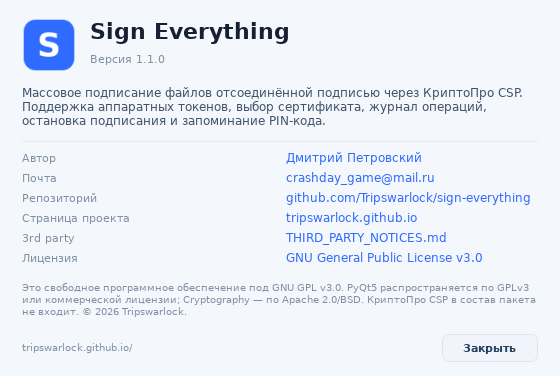
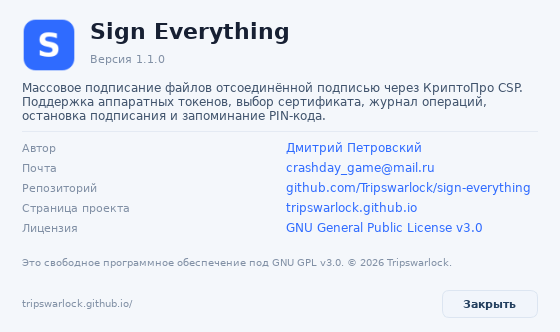
Align PIN controls right and remove third-party section

diff --git a/Sign-everything.py b/Sign-everything.py
@@ -79,7 +79,6 @@ APP_AUTHOR_URL = "https://github.com/Tripswarlock"
 APP_EMAIL = "crashday_game@mail.ru"
 APP_LICENSE = "GNU General Public License v3.0"
 APP_LICENSE_URL = APP_REPOSITORY + "/blob/main/LICENSE"
-APP_THIRD_PARTY_URL = APP_REPOSITORY + "/blob/main/THIRD_PARTY_NOTICES.md"
 PIN_SERVICE = "sign-everything"
 PIN_ACCOUNT = "signing-pin"
 
@@ -1037,7 +1036,6 @@ class AboutDialog(QDialog):
             ("Почта", APP_EMAIL, "mailto:" + APP_EMAIL),
             ("Репозиторий", "github.com/Tripswarlock/sign-everything", APP_REPOSITORY),
             ("Страница проекта", "tripswarlock.github.io", APP_WEBSITE),
-            ("3rd party", "THIRD_PARTY_NOTICES.md", APP_THIRD_PARTY_URL),
             ("Лицензия", APP_LICENSE, APP_LICENSE_URL),
         ]
         for row, (caption, text, url) in enumerate(rows):
@@ -1059,8 +1057,6 @@ class AboutDialog(QDialog):
 
         note = QLabel(
             "Это свободное программное обеспечение под GNU GPL v3.0. "
-            "PyQt5 распространяется по GPLv3 или коммерческой лицензии; "
-            "Cryptography — по Apache 2.0/BSD. КриптоПро CSP в состав пакета не входит. "
             "© 2026 Tripswarlock."
         )
         note.setObjectName("AboutNote")
@@ -1304,10 +1300,10 @@ class MainWindow(QMainWindow):
         pin_row = QHBoxLayout()
         pin_row.setSpacing(7)
         pin_row.addWidget(self.pin_edit)
+        pin_row.addStretch(1)
         pin_row.addWidget(self.eye_btn)
         pin_row.addWidget(self.remember_check)
         pin_row.addWidget(self.forget_btn)
-        pin_row.addStretch(1)
         grid.addLayout(pin_row, 1, 1, 1, 4)
 
         self.pin_status = QLabel("PIN не сохраняется в открытом виде")

diff --git a/README.md b/README.md
@@ -197,9 +197,6 @@ PIN сохраняется **только после первого успешн
 Sign Everything распространяется по **GNU General Public License v3.0**
 (`GPL-3.0-only`). Полный текст — в файле [LICENSE](LICENSE).
 
-Сведения о PyQt5, cryptography, Python и КриптоПро CSP — в
-[THIRD_PARTY_NOTICES.md](THIRD_PARTY_NOTICES.md).
-
 ## Автор
 
 Дмитрий Петровский
